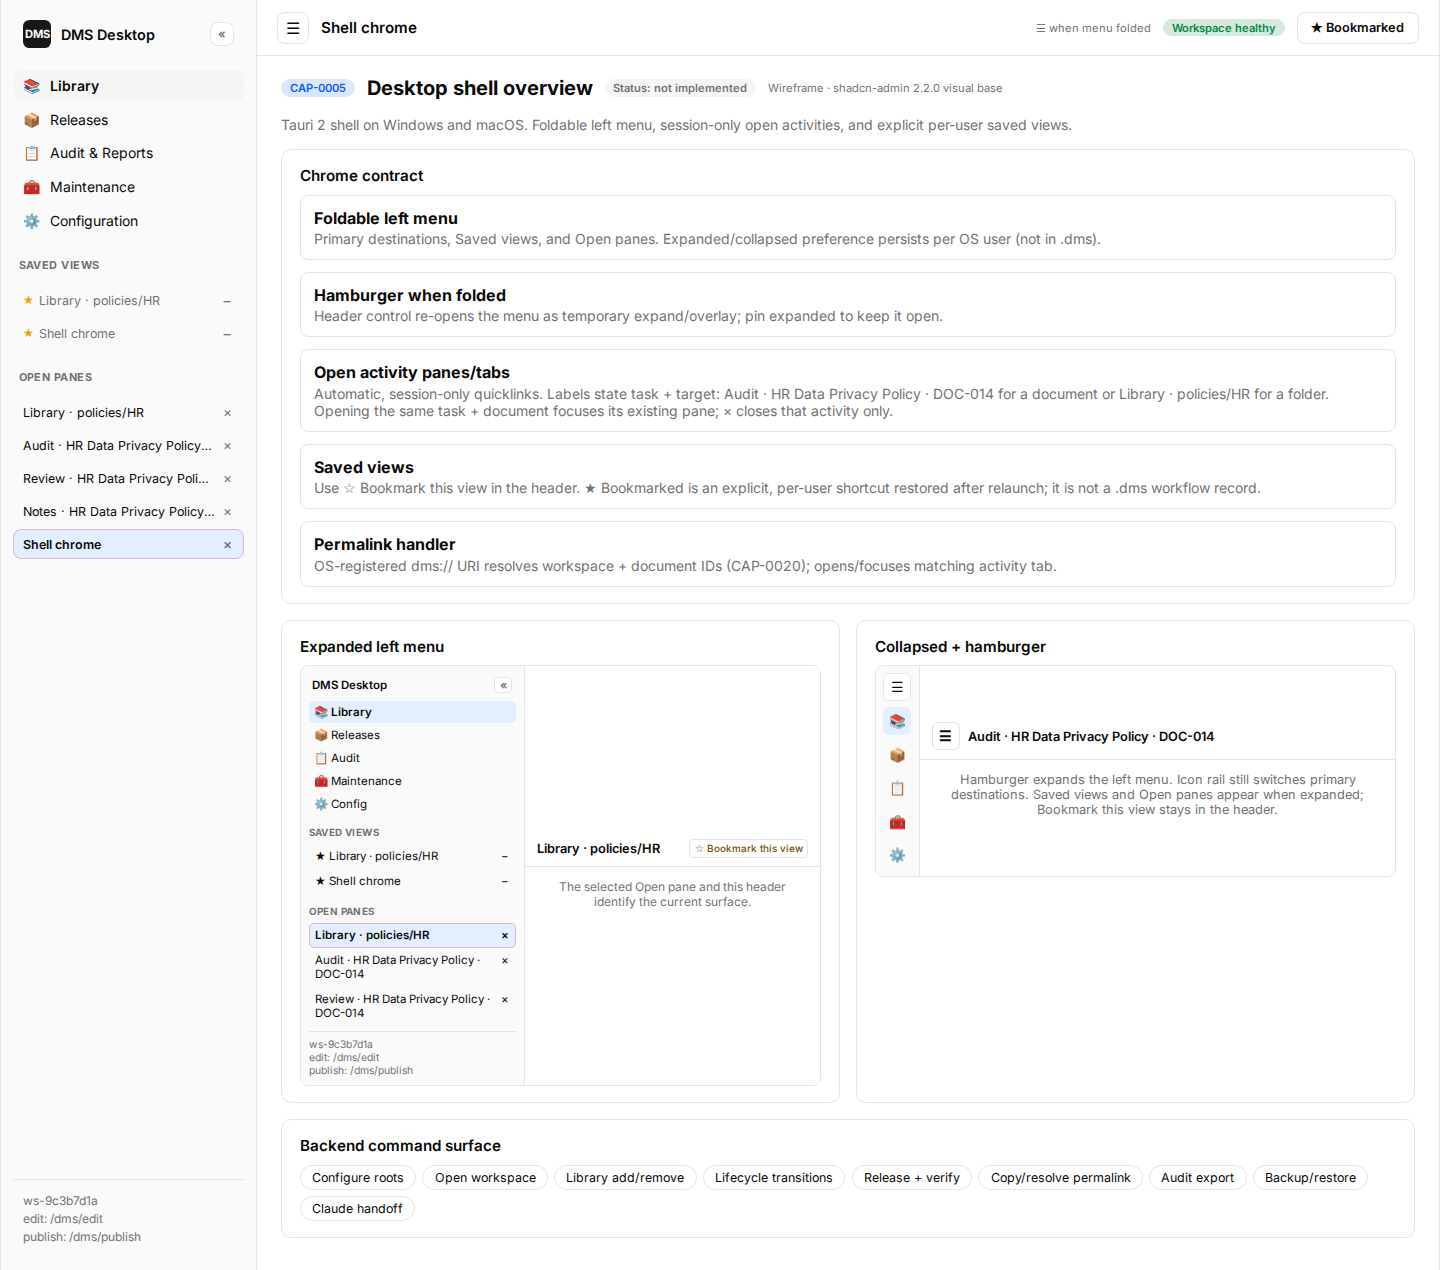
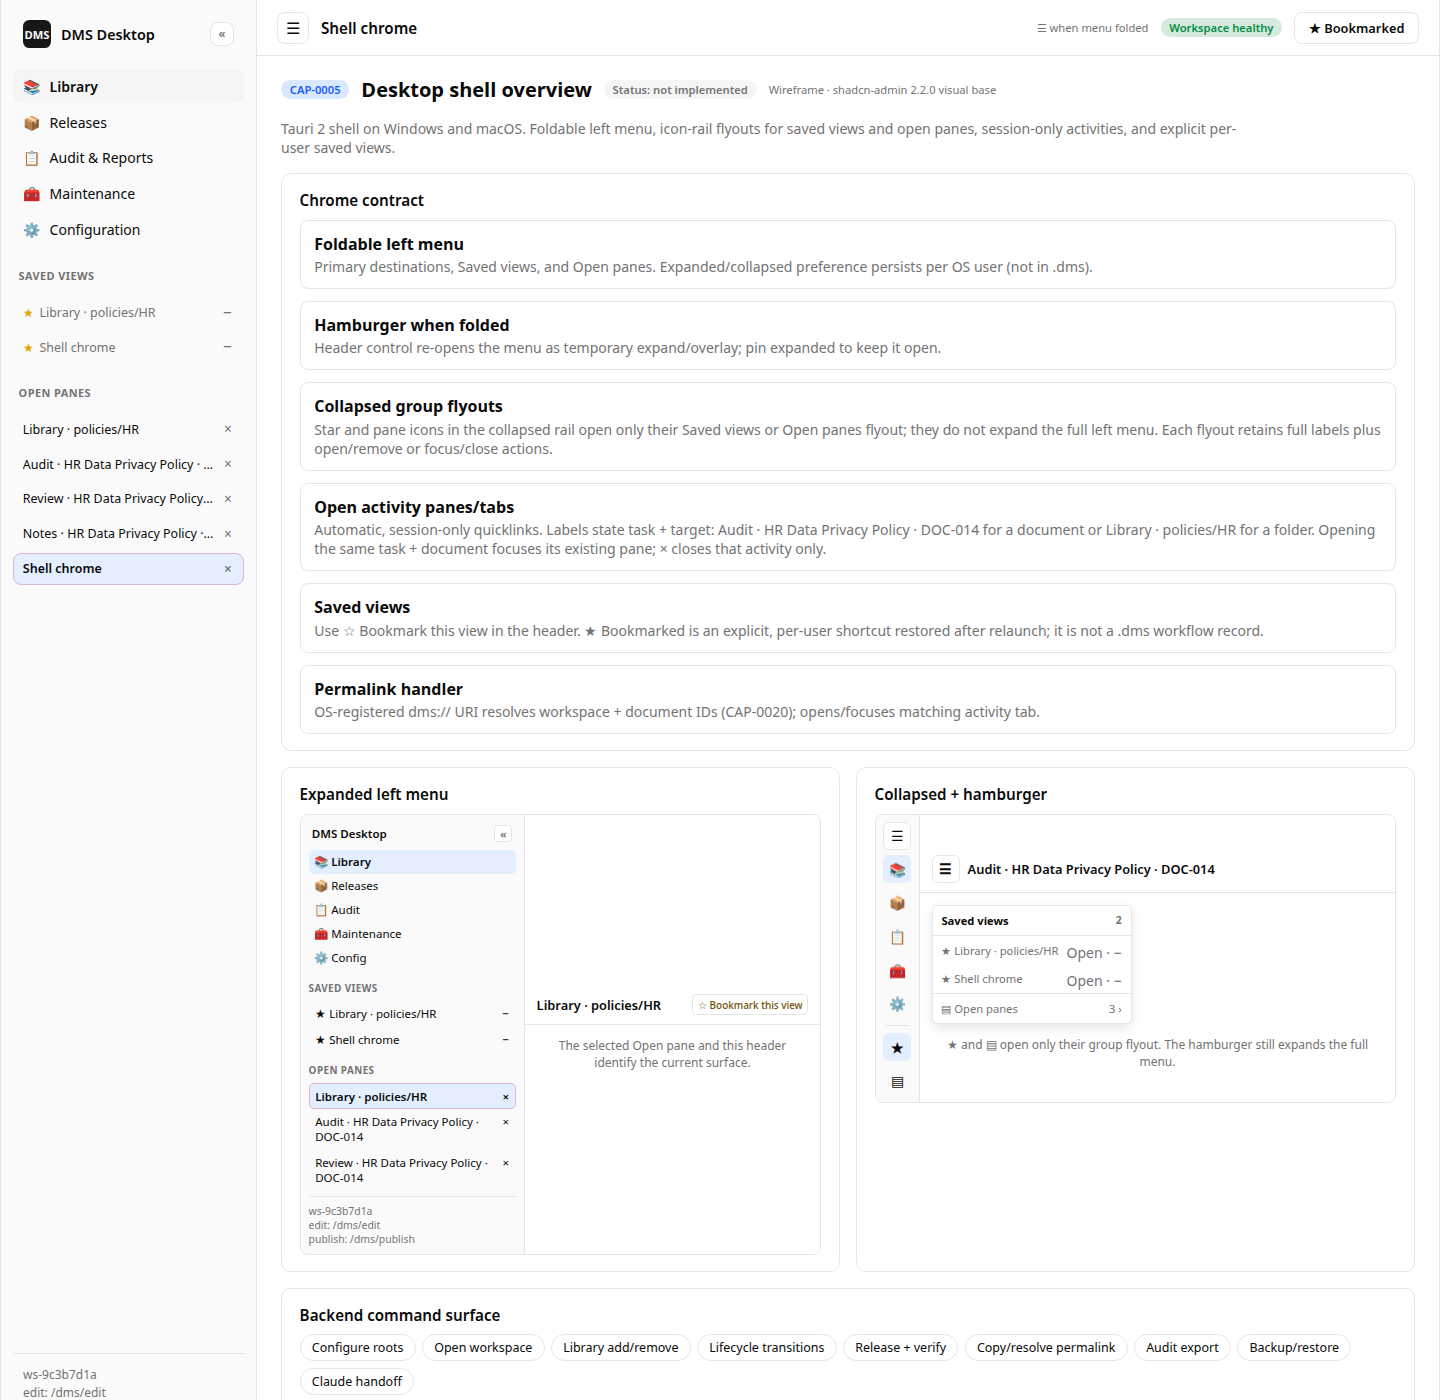
docs(product): add collapsed navigation flyouts

diff --git a/docs/product/wireframes/html/CAP-0005-desktop-shell.html b/docs/product/wireframes/html/CAP-0005-desktop-shell.html
@@ -226,13 +226,14 @@ tr:last-child td { border-bottom: 0; }
         <span class="badge muted">Status: not implemented</span>
         <span class="wire-meta">Wireframe · shadcn-admin 2.2.0 visual base</span>
       </div>
-      <p class="subtitle">Tauri 2 shell on Windows and macOS. Foldable left menu, session-only open activities, and explicit per-user saved views.</p>
+      <p class="subtitle">Tauri 2 shell on Windows and macOS. Foldable left menu, icon-rail flyouts for saved views and open panes, session-only activities, and explicit per-user saved views.</p>
       
       <section class="card">
         <h3 class="card-title">Chrome contract</h3>
         <div class="stack">
           <div class="layer"><strong>Foldable left menu</strong><p class="muted">Primary destinations, Saved views, and Open panes. Expanded/collapsed preference persists per OS user (not in .dms).</p></div>
           <div class="layer"><strong>Hamburger when folded</strong><p class="muted">Header control re-opens the menu as temporary expand/overlay; pin expanded to keep it open.</p></div>
+          <div class="layer"><strong>Collapsed group flyouts</strong><p class="muted">Star and pane icons in the collapsed rail open only their Saved views or Open panes flyout; they do not expand the full left menu. Each flyout retains full labels plus open/remove or focus/close actions.</p></div>
           <div class="layer"><strong>Open activity panes/tabs</strong><p class="muted">Automatic, session-only quicklinks. Labels state task + target: Audit · HR Data Privacy Policy · DOC-014 for a document or Library · policies/HR for a folder. Opening the same task + document focuses its existing pane; × closes that activity only.</p></div>
           <div class="layer"><strong>Saved views</strong><p class="muted">Use ☆ Bookmark this view in the header. ★ Bookmarked is an explicit, per-user shortcut restored after relaunch; it is not a .dms workflow record.</p></div>
           <div class="layer"><strong>Permalink handler</strong><p class="muted">OS-registered dms:// URI resolves workspace + document IDs (CAP-0020); opens/focuses matching activity tab.</p></div>
@@ -277,10 +278,19 @@ tr:last-child td { border-bottom: 0; }
               <div title="Audit">📋</div>
               <div title="Maintenance">🧰</div>
               <div title="Config">⚙</div>
+              <div style="width:1.5rem;height:1px;background:var(--border);margin:0.1rem 0"></div>
+              <div class="on" title="Saved views (2)">★</div>
+              <div title="Open panes (3)">▤</div>
             </div>
             <div class="mini-main">
               <div class="mini-header"><span class="ham">☰</span> Audit · HR Data Privacy Policy · DOC-014</div>
-              <p class="muted" style="padding:0.75rem;margin:0;font-size:0.8rem">Hamburger expands the left menu. Icon rail still switches primary destinations. Saved views and Open panes appear when expanded; Bookmark this view stays in the header.</p>
+              <div style="align-self:flex-start;width:12.5rem;margin:0.75rem;text-align:left;border:1px solid var(--border);border-radius:0.35rem;background:var(--background);box-shadow:0 0.25rem 0.75rem color-mix(in oklch,var(--foreground) 10%,transparent);font-size:0.7rem">
+                <div style="display:flex;justify-content:space-between;padding:0.45rem 0.55rem;border-bottom:1px solid var(--border);font-weight:700;color:var(--foreground)"><span>Saved views</span><span class="muted" style="font-size:0.65rem">2</span></div>
+                <div style="padding:0.42rem 0.55rem">★ Library · policies/HR <span class="muted" style="float:right">Open · −</span></div>
+                <div style="padding:0.42rem 0.55rem">★ Shell chrome <span class="muted" style="float:right">Open · −</span></div>
+                <div style="display:flex;justify-content:space-between;padding:0.45rem 0.55rem;border-top:1px solid var(--border);color:var(--muted-foreground)"><span>▤ Open panes</span><span>3 ›</span></div>
+              </div>
+              <p class="muted" style="padding:0 0.75rem;margin:0;font-size:0.75rem">★ and ▤ open only their group flyout. The hamburger still expands the full menu.</p>
             </div>
           </div>
         </section>

diff --git a/docs/changes/active/CHG-0001-tauri-local-dms-bootstrap.md b/docs/changes/active/CHG-0001-tauri-local-dms-bootstrap.md
@@ -7,6 +7,7 @@
 | External request | Direct operator request: develop a https://tauri.app/ application primarily for Windows for document version control to comply with ISO 27001 requirements. Drafts are original Microsoft Office tools; final approved and released documents are PDFs. No database; operator maintains release and approval process. Document details stored in hidden local directories per folder (e.g. `.dms`). Git-based VCS not mandatory. User can make notes. Released PDFs are checksummed. Refinements: (1) file explorer of controlled library with add/remove; library members are versioned as `*_vMAJOR.MINOR.pdf` on release while Office draft remains editable; (2) persist edit root and publish root; reconstruct mirrored directory tree under publish root on release; (3) PDF export and file versioning are performed by the application using preinstalled Microsoft Office; (4) macOS support is required in addition to Windows; (5) approval notification email contains a URI that opens the installed app to the requested document; (6) responsible editor and approver are assignable at root, folder, subfolder, or individual-document level with inheritance; (7) the person who requested approval receives notification of the recorded approval outcome; (8) distinguish automatic, current-session activity panes from explicit operator bookmarks and make their placement, creation, persistence, restoration, and removal clear in the CAPs and wireframes; (9) "working with folders would be the more dominent part of using DMS Desktop so the folder structure should become more present in the ui. also navigating through the folders in the library view should be more windows explorer like for convinience of the user"; (10) show the exact Office source filename separately from DMS-managed document control data, do not source that data from Office properties, and do not change it when the source file is renamed; (11) name activity panes with their task and referenced folder/document; document labels i... [truncated]
 | Follow-up request | Direct operator request: extend the supported file format with markdown files including PDF export |
 | Follow-up request | Direct operator request: CAP-0016 should enable to open the files. the view should also allow to select how many changes are seen in the bale before pagination beginns. also a search for "Doc" should be possible (as filter). The "Doc" title should be adjusted to the corresponding masterdata file name "Title" (if this is the sense); also in other wireframes the naming of the column missmatch the masterdata naming convention; check and fix this too |
+| Follow-up request | Direct operator request: For the CAP-0005 hamburger/collapsed view add also the "Saved views" and "Open Panes" as icons but then with a folding context menu so the user do not have to expand the whole left pane |
 | Affected CAPs | CAP-0001 … CAP-0020 |
 | Decision records | ADR-0001 … ADR-0020 in `docs/design-decisions.md` |
 
@@ -19,7 +20,8 @@ macOS** that:
 - Provides a foldable left menu (hamburger when collapsed), session-only
   open-activity panes/tabs as quicklinks in the left chrome, task-and-target
   pane labels with same-task-and-document reuse, and explicit per-user saved
-  views
+  views; its collapsed rail exposes saved-view and open-pane icons with
+  group-specific flyouts that do not expand the full left menu
 - Shows a folder-dominant, Windows Explorer-like Library workspace with a
   persistent edit-root-relative tree, Back/Forward/Up + clickable breadcrumbs,
   current-folder child folders and files annotated by library membership, and a
@@ -86,7 +88,7 @@ macOS** that:
 | # | Phase | Status | Verification gate |
 | --- | --- | --- | --- |
 | 0 | Product records and architecture bootstrap | done (docs tree; Markdown source draft plus format-specific local PDF export; release version policy, approval, notification, confidentiality, workflow-role routing, maintenance, periodic review, optional Claude handoff, foldable shell chrome, task-and-target session activity panes with duplicate reuse, saved views, folder-dominant Explorer-like Library navigation with foldable single-document sections and a same-pane batch state, stable document permalinks, Win+macOS recorded) | CAP/CHG/ADR files exist; indexes list CAP-0001…0020; no CAP claims implemented runtime |
-| 1 | Tauri 2 app skeleton (Windows + macOS) + DOX for source tree | pending | Dev app launches on Windows and macOS; README run steps for both; foldable left menu + hamburger + session-only open-activity tabs show task-and-target labels and focus an existing matching task+document pane; explicit saved-view bookmark persists in OS user config and restores as a fresh activity |
+| 1 | Tauri 2 app skeleton (Windows + macOS) + DOX for source tree | pending | Dev app launches on Windows and macOS; README run steps for both; foldable left menu + hamburger + session-only open-activity tabs show task-and-target labels and focus an existing matching task+document pane; collapsed rail icons open saved-view and open-pane flyouts without expanding the whole menu, with open/remove and focus/close actions respectively; explicit saved-view bookmark persists in OS user config and restores as a fresh activity |
 | 2 | `.dms` store + dual-root open/configure + confidentiality and workflow-role policies | pending | Tests: persist/reload edit+publish roots, stable workspace ID, and schema version; safe older-schema migration/newer-schema read-only; create/replace a direct folder policy, remove a non-root policy, refuse root-policy removal, and recompute nearest inherited class; inherit each workflow role independently; init `.dms` only on confirm |
 | 3 | Folder-first Library explorer + add/unregister/reassociate + selection pane | pending | Tests: folder pane is visible by default and includes empty edit-root folders while hiding `.dms`; Back/Forward/Up, breadcrumb, tree, and immediate-child contents stay synchronized; every file row keeps its exact filesystem name while an in-library row shows DMS-managed document data separately; one or more unregistered supported source files (including `.md`) can be selected and added from the right pane, while mixed/unsupported selections expose no incompatible batch action; folder navigation reuses one Library activity and updates its folder label; add under edit root; reject outside path; unregister preserves history; rename/reassociate updates only the source locator and does not change document control data or history; ambiguous move is never auto-linked; current-folder and Entire-library search scopes return matching files with paths and clear back to the complete folder listing; single controlled-document selection shows an always-visible Source file identity plus CAP-0015 Document control data and actions in the right pane; the data is loaded from `.dms`, not Office properties or Markdown front matter; its data, action, revision, and release sections fold independently while retaining document and source-file identity; navigating to an already-open task+document focuses the existing pane, while different tasks for that document may remain open; multi-select of controlled documents shows only multi-applicable actions in the same pane; a saved library view restores folder/sort and a single-document stable ID but never batch selection; copy permalink uses workspace+document IDs only and never changes saved views |
 | 4 | Lifecycle + approval notification + version assign + tree mirror | pending | Tests: request requires summary, requester, change class, effective approver, and transport success; CAP-0020 deep link resolves only an accessible registered workspace to the intended review request and still resolves after rename/version bump; each decision notifies the snapshotted requester, with failure retryable and non-reverting; approver-policy change invalidates an open review; cosmetic→minor, substantive/uncertain→major; DOCX body/header/footer and Markdown rendered-body version and confidentiality markers must equal the candidate release and effective type before review and again before release; missing, mismatched, and conflicting markers block by default; an explicit, reasoned false-positive override is revision-bound, visible to the approver, and recorded in the event chain; comments/event hash persist; metadata change invalidates approval; first version V1.0; refuse overwrite |

diff --git a/docs/product/capabilities/CAP-0005-desktop-shell.md b/docs/product/capabilities/CAP-0005-desktop-shell.md
@@ -39,7 +39,18 @@ When implemented, the following must hold:
    pins expanded.
 9. While collapsed, primary destinations remain reachable as icon-only rail
    entries and/or via the hamburger menu; labels are not required on the rail.
-10. **Open activities** are automatic, browser-like **panes/tabs** below the
+10. While collapsed, the rail also exposes distinct, icon-only **Saved views**
+    and **Open panes** controls. Activating either opens an adjacent temporary
+    flyout for that group without expanding the whole left menu:
+    - the Saved views flyout lists each view's full canonical label, opens its
+      target under the existing reuse rules, and offers its remove action;
+    - the Open panes flyout lists each pane's full canonical label, focuses that
+      pane, and offers its close action.
+    The flyout dismisses without changing the persisted sidebar preference.
+    Rail icons have accessible names and hover labels; a constrained flyout may
+    elide a label only when its full canonical label remains available as the
+    item's accessible name.
+11. **Open activities** are automatic, browser-like **panes/tabs** below the
     primary destinations. A pane label states its **task** and current target:
     - a document-scoped pane is `Task · <DMS-managed title> · <document
       number>` (for example, `Audit · HR Data Privacy Policy · DOC-014`); the
@@ -71,7 +82,7 @@ When implemented, the following must hold:
     Closing the last document-scoped tab does not exit the app. Open activities
     end with the application session and are not restored automatically after a
     relaunch.
-11. An operator can explicitly save the current surface as a **saved view**.
+12. An operator can explicitly save the current surface as a **saved view**.
     The main header always exposes `☆ Bookmark this view`; after saving it,
     that control shows `★ Bookmarked` and exposes an explicit remove-bookmark
     action. Saved views appear in their own **Saved views** group above Open
@@ -84,7 +95,7 @@ When implemented, the following must hold:
     An inaccessible workspace or missing document is shown as unavailable and
     remains removable. Saved views are per-user app preferences in the OS
     app-config store, not `.dms` workflow or process evidence.
-12. The left menu foot shows the current workspace identity (display name or
+13. The left menu foot shows the current workspace identity (display name or
     workspace ID) and root path summary when expanded; the foot is hidden
     when the menu is collapsed to keep the rail narrow.
 
